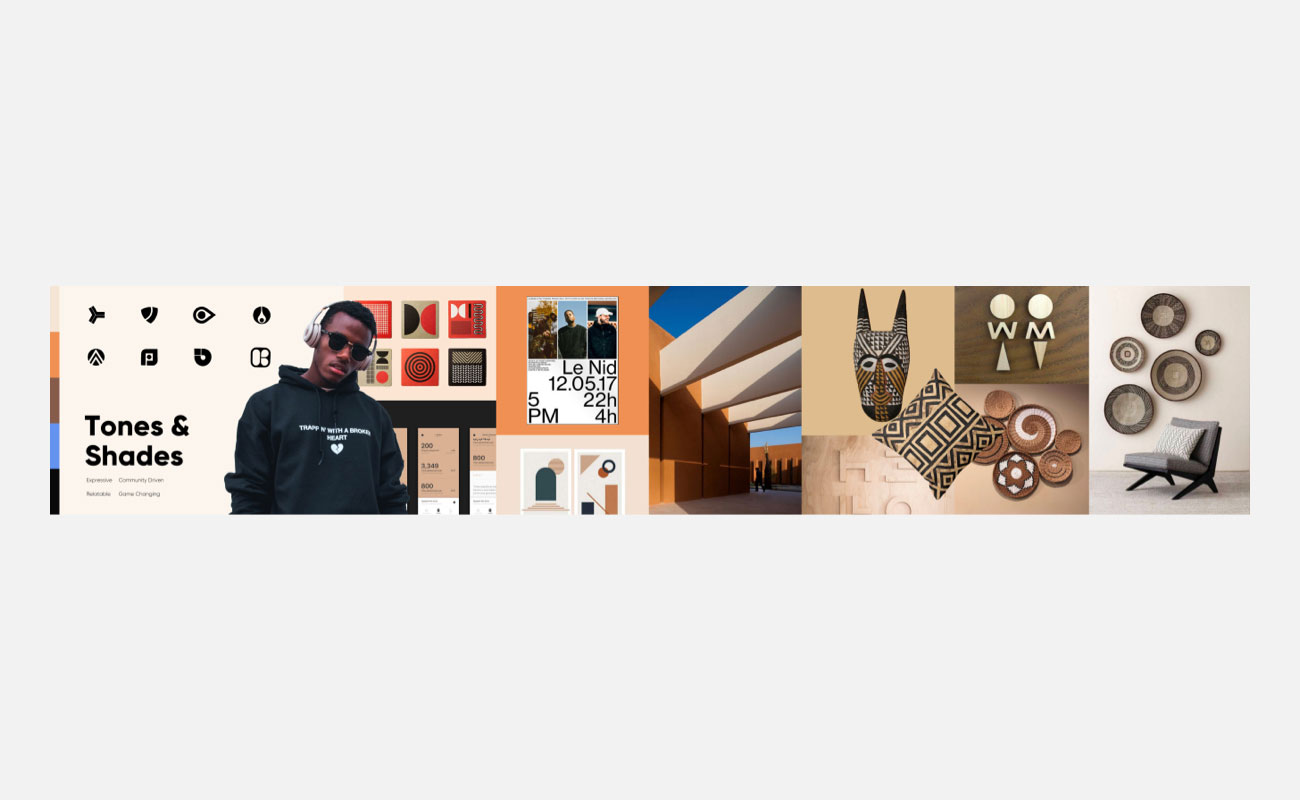
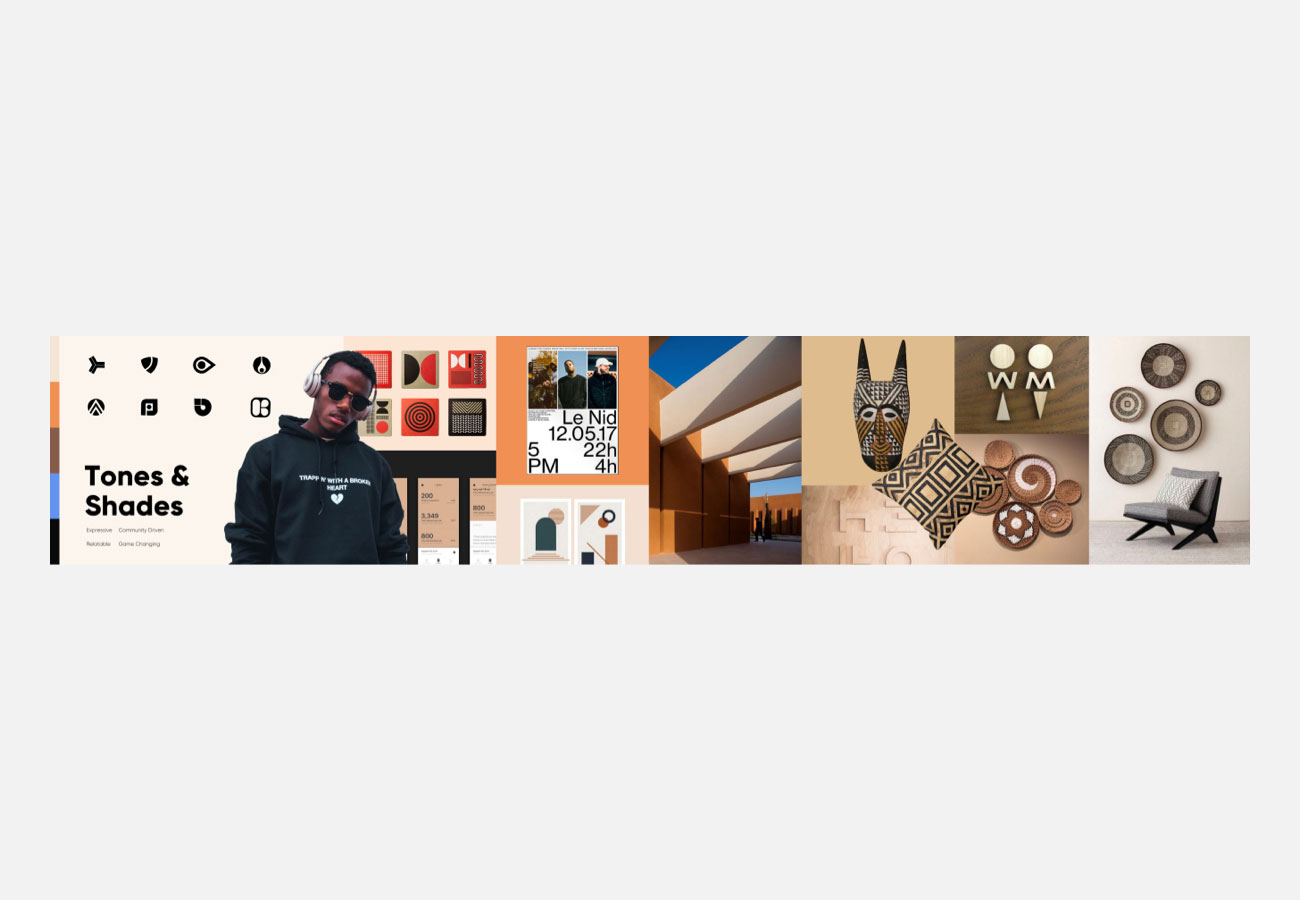
Added mobile image versions

Changed region(s): [[0.0615, 0.3438, 0.9846, 0.6562], [0.0615, 0.4375, 0.1231, 0.4688], [0.0308, 0.625, 0.0615, 0.6562]]

diff --git a/_projects/tonesandshades.html b/_projects/tonesandshades.html
@@ -49,6 +49,8 @@ stylescape:
     alt: "Tones & Shades Stylescape"
     default-image: "stylescape.jpg"
     images:
+      - breakpoint: "max-width: 800px"
+        file: "stylescape-small.jpg"
       - breakpoint: "min-width: 1200px"
         file: "stylescape@2x.jpg"
       - breakpoint: "max-width: 1199px"
@@ -80,6 +82,8 @@ assets:
     alt: "Logo Grid"
     default-image: "logo-grid.jpg"
     images:
+      - breakpoint: "max-width: 800px"
+        file: "logo-grid-small.jpg"
       - breakpoint: "min-width: 1200px"
         file: "logo-grid@2x.jpg"
       - breakpoint: "max-width: 1199px"
@@ -105,6 +109,8 @@ assets2:
     alt: "Business Card"
     default-image: "business-card.jpg"
     images:
+      - breakpoint: "max-width: 549px"
+        file: "business-card-small.jpg"
       - breakpoint: "min-width: 1200px"
         file: "business-card@2x.jpg"
       - breakpoint: "max-width: 1199px"
